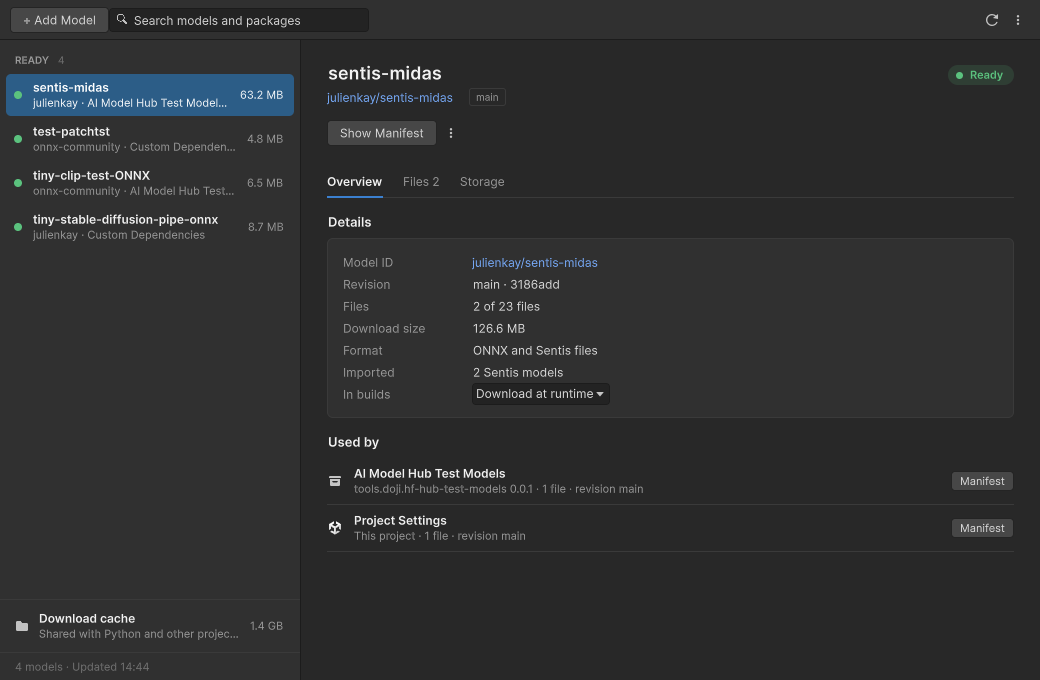
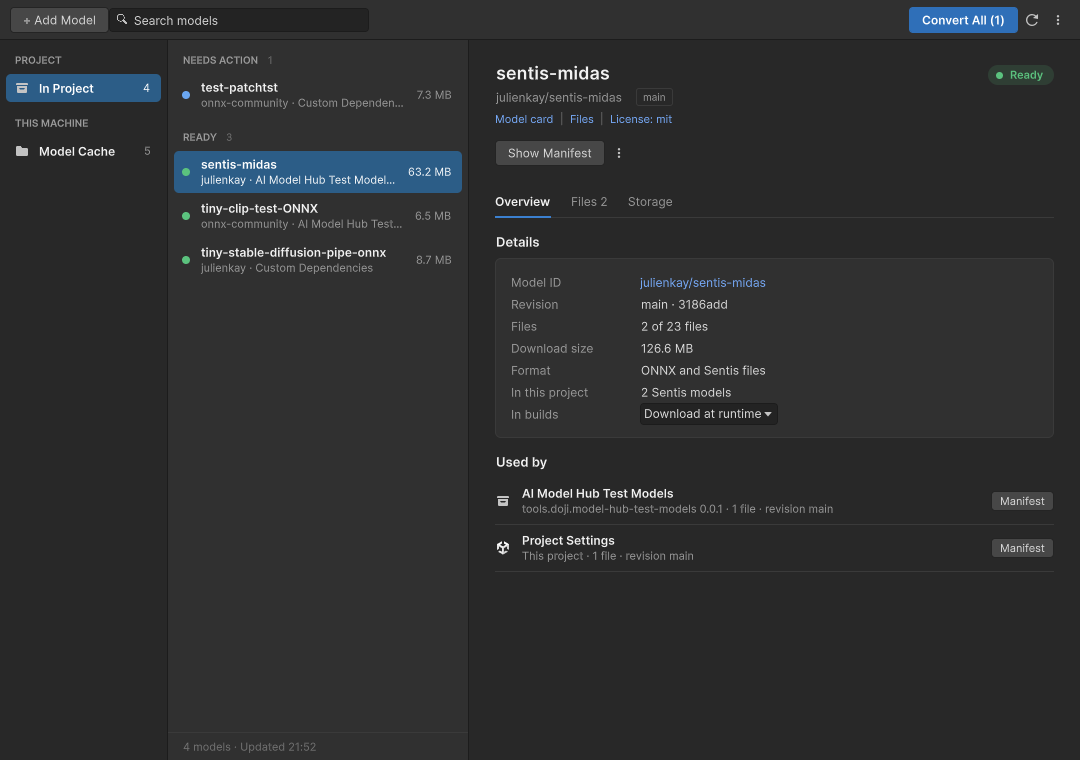
docs(ui): call Hugging Face repositories models in user-facing text
Hugging Face asks authors to publish each model variant in its own
repository, so one repository is one model in the normal case. UI
labels, tooltips, dialogs, status and error messages, and the user
manual now say "model". The search field says "Search models". The
internal architecture notes record the rule and link the Hugging Face
model release checklist.

diff --git a/tools.doji.model-hub/Editor/UI/CacheDiskUsageWindow.cs b/tools.doji.model-hub/Editor/UI/CacheDiskUsageWindow.cs
@@ -129,7 +129,7 @@ namespace Doji.AI.ModelHub.Editor
             headerText.Add(UiKit.Text("Model Cache Disk Usage", "hf-title"));
             var subtitle = UiKit.Element("mh-header__subtitle");
             var count = overview.Repositories.Count;
-            subtitle.Add(UiKit.Text($"{UiKit.FormatBytes(overview.TotalSizeInBytes) ?? "0 B"} · {count} {(count == 1 ? "repository" : "repositories")}"));
+            subtitle.Add(UiKit.Text($"{UiKit.FormatBytes(overview.TotalSizeInBytes) ?? "0 B"} · {CacheTiles.DescribeCount(overview)}"));
             subtitle.Add(UiKit.LinkButton(UiKit.RevealInFileBrowserLabel, () => ProjectSettingsLinks.RevealPath(overview.CacheRoot), overview.CacheRoot));
             headerText.Add(subtitle);
             header.Add(headerText);
@@ -176,7 +176,7 @@ namespace Doji.AI.ModelHub.Editor
             })
             {
                 text = text,
-                tooltip = showsFiles ? "One tile per file, grouped by repository" : "One tile per repository"
+                tooltip = showsFiles ? "One tile per file, grouped by model" : "One tile per model"
             };
             button.AddToClassList("mh-segment__button");
             button.AddToClassList(edgeClass);
@@ -481,7 +481,7 @@ namespace Doji.AI.ModelHub.Editor
                 }
             }, "hf-button--danger");
             remove.SetEnabled(!isSyncing);
-            remove.tooltip = isSyncing ? "Wait until the setup finishes." : "Delete this repository with all its revisions from the cache.";
+            remove.tooltip = isSyncing ? "Wait until the setup finishes." : "Delete this model with all its revisions from the cache.";
             actions.Add(remove);
             _card.Add(actions);
         }

diff --git a/tools.doji.model-hub/Editor/UI/EditorOperations.cs b/tools.doji.model-hub/Editor/UI/EditorOperations.cs
@@ -1,4 +1,4 @@
-using System.Linq;
+using System.Linq;
 using System.Text;
 using UnityEditor;
 using UnityEngine;
@@ -55,7 +55,7 @@ namespace Doji.AI.ModelHub.Editor
             if (item.HasRevisionConflict)
             {
                 UnityEngine.Debug.LogWarning(
-                    $"AI Model Hub cannot import '{item.Repository}' because the project declares multiple requested revisions for that repository. Resolve manifests to one revision first.");
+                    $"AI Model Hub cannot import '{item.Repository}' because the project declares it at multiple revisions. Resolve manifests to one revision first.");
                 return;
             }
 
@@ -82,7 +82,7 @@ namespace Doji.AI.ModelHub.Editor
             if (item.HasRevisionConflict)
             {
                 UnityEngine.Debug.LogWarning(
-                    $"AI Model Hub cannot remove imported artifacts for '{item.Repository}' while the project declares multiple requested revisions for that repository.");
+                    $"AI Model Hub cannot remove imported artifacts for '{item.Repository}' while the project declares it at multiple revisions.");
                 return;
             }
 
@@ -102,7 +102,7 @@ namespace Doji.AI.ModelHub.Editor
             if (item.HasRevisionConflict)
             {
                 UnityEngine.Debug.LogWarning(
-                    $"AI Model Hub cannot remove raw cache for '{item.Repository}' while the project declares multiple requested revisions for that repository.");
+                    $"AI Model Hub cannot remove raw cache for '{item.Repository}' while the project declares it at multiple revisions.");
                 return;
             }
 

diff --git a/tools.doji.model-hub/Editor/Status/ModelHubService.cs b/tools.doji.model-hub/Editor/Status/ModelHubService.cs
@@ -215,7 +215,7 @@ namespace Doji.AI.ModelHub.Editor
 
             return status.ReasonCode switch
             {
-                DependencyReasonCode.InvalidRepository => "Repository was not found on Hugging Face.",
+                DependencyReasonCode.InvalidRepository => "Model was not found on Hugging Face.",
                 DependencyReasonCode.RawCacheRevisionRefMissing => "Download this model to use it.",
                 DependencyReasonCode.RawSnapshotRootMissing => "The downloaded files are missing. Download this model again.",
                 DependencyReasonCode.RawCacheFilesMissing => "Some selected files are not downloaded yet. Update the model.",
@@ -250,7 +250,7 @@ namespace Doji.AI.ModelHub.Editor
                     .OrderBy(label => label, StringComparer.Ordinal)
                     .ToArray();
                 var errorMessage =
-                    $"Repository revision conflict: '{repositoryGroup.Key}' is declared at multiple requested revisions ({string.Join(", ", revisions)}). AI Model Hub supports only one revision per repository per project. Resolve manifests to one revision before importing or removing files. Conflicting dependents: {string.Join(", ", owners)}.";
+                    $"Revision conflict: '{repositoryGroup.Key}' is declared at multiple revisions ({string.Join(", ", revisions)}). AI Model Hub supports only one revision per model per project. Resolve manifests to one revision before importing or removing files. Conflicting dependents: {string.Join(", ", owners)}.";
                 foreach (var item in repositoryGroup)
                 {
                     item.AddDiagnostic(new ModelHubDiagnostic("error", errorMessage));

diff --git a/tools.doji.model-hub/Tests/Editor/UI/CacheTilesTests.cs b/tools.doji.model-hub/Tests/Editor/UI/CacheTilesTests.cs
@@ -90,6 +90,29 @@ namespace Doji.AI.ModelHub.Editor.Tests
             Assert.That(CacheTiles.BuildSizeText(CreateRepository("model", "doji/model", Partial(1024))), Is.EqualTo("1 KB"));
         }
 
+        /// <summary>
+        /// Verifies the cache is counted in models, with datasets and spaces named apart only when there are any.
+        /// </summary>
+        [Test]
+        public void DescribeCount_CountsModelsAndNamesOtherTypes()
+        {
+            var overview = new CacheOverview
+            {
+                Repositories = new[]
+                {
+                    CreateRepository("model", "doji/a", Complete(1)),
+                    CreateRepository("model", "doji/b", Complete(1)),
+                    CreateRepository("dataset", "doji/c", Complete(1)),
+                    CreateRepository("space", "doji/d", Complete(1)),
+                    CreateRepository("space", "doji/e", Complete(1))
+                }
+            };
+
+            Assert.That(CacheTiles.DescribeCount(overview), Is.EqualTo("2 models · 1 dataset · 2 spaces"));
+            Assert.That(CacheTiles.DescribeCount(new CacheOverview { Repositories = new[] { CreateRepository("model", "doji/a", Complete(1)) } }), Is.EqualTo("1 model"));
+            Assert.That(CacheTiles.DescribeCount(null), Is.EqualTo("0 models"));
+        }
+
         private static CacheRepositoryEntry CreateRepository(string repoType, string repository, params CacheFileEntry[] files)
         {
             return new CacheRepositoryEntry

diff --git a/tools.doji.model-hub/Editor/UI/CacheTiles.cs b/tools.doji.model-hub/Editor/UI/CacheTiles.cs
@@ -88,6 +88,29 @@ namespace Doji.AI.ModelHub.Editor
         }
 
         /// <summary>
+        /// Counts the cache entries as models, with datasets and spaces named apart, for example "5 models · 1 dataset".
+        /// </summary>
+        public static string DescribeCount(CacheOverview overview)
+        {
+            var repositories = overview?.Repositories ?? System.Array.Empty<CacheRepositoryEntry>();
+            var models = repositories.Count(repository => repository.IsModel);
+            var datasets = repositories.Count(repository => repository.RepoType == "dataset");
+            var spaces = repositories.Count(repository => repository.RepoType == "space");
+            var parts = new List<string> { models == 1 ? "1 model" : $"{models} models" };
+            if (datasets > 0)
+            {
+                parts.Add(datasets == 1 ? "1 dataset" : $"{datasets} datasets");
+            }
+
+            if (spaces > 0)
+            {
+                parts.Add(spaces == 1 ? "1 space" : $"{spaces} spaces");
+            }
+
+            return string.Join(" · ", parts);
+        }
+
+        /// <summary>
         /// Size text for a repository tile, with the partial share when it also has complete files.
         /// </summary>
         public static string BuildSizeText(CacheRepositoryEntry repository)

diff --git a/tools.doji.model-hub/Tests/Editor/Status/StatusServiceTests.cs b/tools.doji.model-hub/Tests/Editor/Status/StatusServiceTests.cs
@@ -65,7 +65,7 @@ namespace Doji.AI.ModelHub.Editor.Tests
 
             Assert.That(report.FailedCount, Is.EqualTo(1));
             Assert.That(report.DependencyStatuses[0].ReasonCode, Is.EqualTo(DependencyReasonCode.InvalidRepository));
-            Assert.That(report.DependencyStatuses[0].MaintainerMessage, Is.EqualTo("Repository was not found on Hugging Face."));
+            Assert.That(report.DependencyStatuses[0].MaintainerMessage, Is.EqualTo("Model was not found on Hugging Face."));
         }
 
         [Test]
@@ -273,7 +273,7 @@ namespace Doji.AI.ModelHub.Editor.Tests
             Assert.That(report.FailedCount, Is.EqualTo(2));
             Assert.That(report.DependencyStatuses[0].ReasonCode, Is.EqualTo(DependencyReasonCode.RevisionConflict));
             Assert.That(report.DependencyStatuses[1].ReasonCode, Is.EqualTo(DependencyReasonCode.RevisionConflict));
-            Assert.That(report.DependencyStatuses[0].MaintainerMessage, Does.Contain("multiple requested revisions"));
+            Assert.That(report.DependencyStatuses[0].MaintainerMessage, Does.Contain("multiple revisions"));
             Assert.That(report.DependencyStatuses[0].MaintainerMessage, Does.Contain("main"));
             Assert.That(report.DependencyStatuses[0].MaintainerMessage, Does.Contain("refs/tags/v1"));
         }

diff --git a/tools.doji.model-hub/Editor/UI/ModelHubWindow.CachedModels.cs b/tools.doji.model-hub/Editor/UI/ModelHubWindow.CachedModels.cs
@@ -230,7 +230,7 @@ namespace Doji.AI.ModelHub.Editor
             var actions = UiKit.Element("mh-actions");
             actions.Add(UiKit.Button(UiKit.RevealInFileBrowserLabel, () => ProjectSettingsLinks.RevealPath(repository.FolderPath), "hf-button--first"));
             var diskUsage = UiKit.Button("Open Disk Usage", () => CacheDiskUsageWindow.Open(repository.FolderName));
-            diskUsage.tooltip = "Open a map of the space every repository in the cache takes.";
+            diskUsage.tooltip = "Open a map of the space every model in the cache takes.";
             actions.Add(diskUsage);
             actions.Add(UiKit.Spacer());
             var remove = UiKit.Button("Remove from Cache", () =>
@@ -242,7 +242,7 @@ namespace Doji.AI.ModelHub.Editor
                 }
             }, "hf-button--danger");
             remove.SetEnabled(!BackgroundSyncManager.IsRunning);
-            remove.tooltip = BackgroundSyncManager.IsRunning ? "Wait until the setup finishes." : "Delete this repository with all its revisions from the cache.";
+            remove.tooltip = BackgroundSyncManager.IsRunning ? "Wait until the setup finishes." : "Delete this model with all its revisions from the cache.";
             actions.Add(remove);
             card.Add(actions);
             section.Add(card);

diff --git a/tools.doji.model-hub/Editor/Import/ProjectImportService.cs b/tools.doji.model-hub/Editor/Import/ProjectImportService.cs
@@ -231,7 +231,7 @@ namespace Doji.AI.ModelHub.Editor
                     }
                     catch (Exception exception)
                     {
-                        var failureMessage = $"Failed to convert ONNX file '{snapshotFile.RepoPath}' from repository '{dependency.Repository}'. {exception.Message}";
+                        var failureMessage = $"Failed to convert ONNX file '{snapshotFile.RepoPath}' of model '{dependency.Repository}'. {exception.Message}";
                         conversionFailures.Add(failureMessage);
                         skippedRepoPaths.Add(snapshotFile.RepoPath);
                         diagnostics.Add(new ImportDiagnostic
@@ -265,7 +265,7 @@ namespace Doji.AI.ModelHub.Editor
                 throw new InvalidOperationException(
                     conversionFailures.Count > 0
                         ? conversionFailures[0]
-                        : $"Failed to convert ONNX files from repository '{dependency.Repository}'.");
+                        : $"Failed to convert the ONNX files of model '{dependency.Repository}'.");
             }
 
             var sharedMetadata = CreateSharedMetadata(dependency, cachedSnapshot, runtimeFiles, skippedRepoPaths, diagnostics, sentisVersion, recipeSetHash);

diff --git a/tools.doji.model-hub/Editor/UI/FileSelectionPopup.cs b/tools.doji.model-hub/Editor/UI/FileSelectionPopup.cs
@@ -109,7 +109,7 @@ namespace Doji.AI.ModelHub.Editor
                 _selection.Clear();
                 RebuildList();
             });
-            allFiles.tooltip = "Clear the selection so the manifest uses the whole repository.";
+            allFiles.tooltip = "Clear the selection so the manifest uses every file of the model.";
             footer.Add(allFiles);
             footer.Add(UiKit.Button("Cancel", () => editorWindow?.Close()));
             footer.Add(UiKit.PrimaryButton("Apply", Apply));
@@ -180,7 +180,7 @@ namespace Doji.AI.ModelHub.Editor
             var visible = _files.Where(IsVisible).ToArray();
             if (visible.Length == 0)
             {
-                _content.Add(UiKit.Text(_files.Length == 0 ? "This repository has no files." : "No files match the filter.", "fp-message"));
+                _content.Add(UiKit.Text(_files.Length == 0 ? "This model has no files." : "No files match the filter.", "fp-message"));
             }
 
             foreach (var file in visible)

diff --git a/tools.doji.model-hub/Editor/UI/ManifestModelValidation.cs b/tools.doji.model-hub/Editor/UI/ManifestModelValidation.cs
@@ -1,4 +1,4 @@
-using System;
+using System;
 using System.Collections.Generic;
 using System.Linq;
 using System.Threading;
@@ -374,7 +374,7 @@ namespace Doji.AI.ModelHub.Editor
                     modelId,
                     "main",
                     cachedExists ? ManifestModelValidationStatus.Valid : ManifestModelValidationStatus.Invalid,
-                    cachedExists ? null : "Repository was not found on Hugging Face.");
+                    cachedExists ? null : "Model was not found on Hugging Face.");
             }
 
             try
@@ -397,7 +397,7 @@ namespace Doji.AI.ModelHub.Editor
                     modelId,
                     "main",
                     success ? ManifestModelValidationStatus.Valid : ManifestModelValidationStatus.Invalid,
-                    success ? null : "Repository was not found on Hugging Face.");
+                    success ? null : "Model was not found on Hugging Face.");
             }
             catch (Exception exception)
             {

diff --git a/tools.doji.model-hub/Editor/Status/StatusService.cs b/tools.doji.model-hub/Editor/Status/StatusService.cs
@@ -51,7 +51,7 @@ namespace Doji.AI.ModelHub.Editor
                 return Failed(
                     dependency,
                     DependencyReasonCode.InvalidRepository,
-                    "Repository was not found on Hugging Face.",
+                    "Model was not found on Hugging Face.",
                     revisionRefPath,
                     null,
                     null,
@@ -167,7 +167,7 @@ namespace Doji.AI.ModelHub.Editor
                 return Missing(
                     dependency,
                     DependencyReasonCode.RawCacheFilesMissing,
-                    "The repository file list is not known on this machine, so AI Model Hub cannot tell whether every file is downloaded. Update to check.",
+                    "The model's file list is not known on this machine, so AI Model Hub cannot tell whether every file is downloaded. Update to check.",
                     revisionRefPath,
                     snapshotRoot,
                     rawMetadataPath,

diff --git a/tools.doji.model-hub/Editor/UI/ProjectSettingsLinks.cs b/tools.doji.model-hub/Editor/UI/ProjectSettingsLinks.cs
@@ -338,7 +338,7 @@ namespace Doji.AI.ModelHub.Editor
                 .ToArray();
             var builder = new StringBuilder();
             builder.AppendLine("AI Model Hub revision conflict");
-            builder.AppendLine($"Repository: {item.Repository}");
+            builder.AppendLine($"Model: {item.Repository}");
             builder.AppendLine($"Requested revisions: {string.Join(", ", revisions)}");
             builder.AppendLine("Owners:");
 
@@ -359,7 +359,7 @@ namespace Doji.AI.ModelHub.Editor
                 builder.AppendLine($"  resolve: {resolutionInfo.ResolutionHint}");
             }
 
-            builder.Append("AI Model Hub blocks import/remove until one requested revision remains for this repository.");
+            builder.Append("AI Model Hub blocks import/remove until one requested revision remains for this model.");
             return builder.ToString();
         }
 
